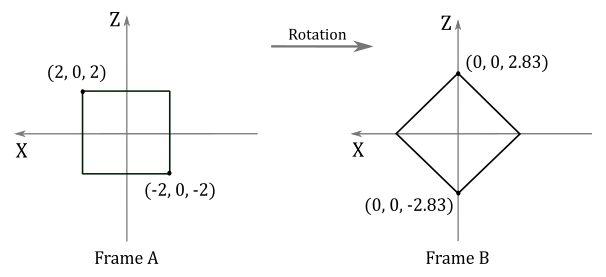
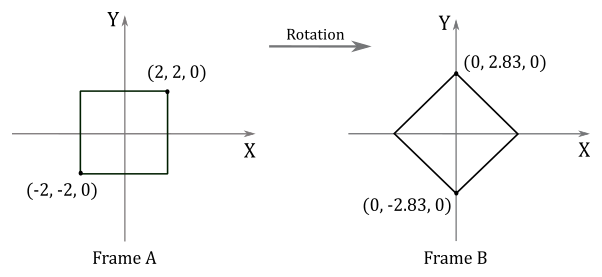
fix

diff --git a/docs/LearnVulkan/A.03-Transformations.md b/docs/LearnVulkan/A.03-Transformations.md
@@ -200,11 +200,11 @@ $S^{-1}=\left\lbrack\matrix{1/s_x&0&0\cr 0&1/s_y&0\cr 0&0&1/s_z}\right\rbrack$
 
 ***Example***:
 
-Given a minimum point $\mathbf{p}=(-2,0,-2)$ and a maximum point $\mathbf{q}=(2,0,2)$ defining a square, if you want to scale it by a factor of $2$ along the x-axis, $0.5$ along the z-axis, and leave the y-coordinate unchanged, you can use the corresponding scaling matrix:
+Given a minimum point $\mathbf{p}=(-2,-2,0)$ and a maximum point $\mathbf{q}=(2,2,0)$ defining a square, if you want to scale it by a factor of $2$ along the x-axis, $0.5$ along the y-axis, and leave the z-coordinate unchanged, you can use the corresponding scaling matrix:
 
 <br>
 
-$\mathbf{S}=\left\lbrack\matrix{2&0&0\cr 0&1&0\cr 0&0&0.5}\right\rbrack$
+$\mathbf{S}=\left\lbrack\matrix{2&0&0\cr 0&0.5&0\cr 0&0&1}\right\rbrack$
 
 <br>
 
@@ -212,9 +212,9 @@ To scale the square, we need to multiply both $\mathbf{p}$ and $\mathbf{q}$ by $
 
 <br>
 
-$\left\lbrack\matrix{-2&0&-2}\right\rbrack\left\lbrack\matrix{2&0&0\cr 0&1&0\cr 0&0&0.5}\right\rbrack=\left\lbrack\matrix{-4&0&-1}\right\rbrack$
+$\left\lbrack\matrix{2&0&0\cr 0&0.5&0\cr 0&0&1}\right\rbrack\left\lbrack\matrix{-2\cr -2\cr 0}\right\rbrack=\left\lbrack\matrix{-4\cr -1\cr 0}\right\rbrack$
 
-$\ \quad\left\lbrack\matrix{2&0&2}\right\rbrack\left\lbrack\matrix{2&0&0\cr 0&1&0\cr 0&0&0.5}\right\rbrack=\left\lbrack\matrix{4&0&1}\right\rbrack$
+$\left\lbrack\matrix{2&0&0\cr 0&0.5&0\cr 0&0&1}\right\rbrack\left\lbrack\matrix{2\cr 2\cr 0}\right\rbrack=\left\lbrack\matrix{4\cr 1\cr 0}\right\rbrack$
 
 <br>
 
@@ -343,11 +343,11 @@ $\mathbf{R}_ x=\left\lbrack\matrix{1&0&0\cr 0&\cos\theta&-\sin\theta\cr 0&\sin\t
 
 ***Example***:
 
-Given a minimum point $\mathbf{p}=(-2,0,-2)$ and a maximum point $\mathbf{q}=(2,0,2)$ of a square, suppose you want to rotate it $-45°$ counterclockwise (that is, $45°$ clockwise) about the y-axis. The corresponding rotation matrix is:
+Given a minimum point $\mathbf{p}=(-2,-2,0)$ and a maximum point $\mathbf{q}=(2,2,0)$ of a square, suppose you want to rotate it $45°$ counterclockwise about the z-axis. The corresponding rotation matrix is:
 
 <br>
 
-$\mathbf{R}_ y=\left\lbrack\matrix{\cos\theta&0&\sin\theta\cr 0&1&0\cr -\sin\theta&0&\cos\theta}\right\rbrack=\left\lbrack\matrix{\cos{(-45°)}&0&\sin{(-45°)}\cr 0&1&0\cr -\sin{(-45°)}&0&\cos{(-45°)}}\right\rbrack=\left\lbrack\matrix{1/\sqrt{2}&0&-1/\sqrt{2}\cr 0&1&0\cr 1/\sqrt{2}&0&1/\sqrt{2}}\right\rbrack$
+$\mathbf{R}_ z=\left\lbrack\matrix{\cos\theta&-\sin\theta&0\cr \sin\theta&\cos\theta&0\cr 0&0&1}\right\rbrack=\left\lbrack\matrix{\cos{(45°)}&-\sin{(45°)}&0\cr \sin{(45°)}&\cos{(45°)}&0\cr 0&0&1}\right\rbrack=\left\lbrack\matrix{1/\sqrt{2}&-1/\sqrt{2}&0\cr 1/\sqrt{2}&1/\sqrt{2}&0\cr 0&0&1}\right\rbrack$
 
 <br>
 
@@ -355,9 +355,9 @@ To rotate the square we need to multiply $\mathbf{p}$ and $\mathbf{q}$ by the ro
 
 <br>
 
-$\left\lbrack\matrix{-2&0&-2}\right\rbrack\left\lbrack\matrix{1/\sqrt{2}&0&-1/\sqrt{2}\cr 0&1&0\cr 1/\sqrt{2}&0&1/\sqrt{2}}\right\rbrack=\left\lbrack\matrix{0&0&-2.83}\right\rbrack$
+$\left\lbrack\matrix{1/\sqrt{2}&-1/\sqrt{2}&0\cr 1/\sqrt{2}&1/\sqrt{2}&0\cr 0&0&1}\right\rbrack\left\lbrack\matrix{-2\cr -2\cr 0}\right\rbrack=\left\lbrack\matrix{0&-2.83&0}\right\rbrack$
 
-$\ \quad\left\lbrack\matrix{2&0&2}\right\rbrack\left\lbrack\matrix{1/\sqrt{2}&0&-1/\sqrt{2}\cr 0&1&0\cr 1/\sqrt{2}&0&1/\sqrt{2}}\right\rbrack=\left\lbrack\matrix{0&0&2.83}\right\rbrack$
+$\left\lbrack\matrix{1/\sqrt{2}&-1/\sqrt{2}&0\cr 1/\sqrt{2}&1/\sqrt{2}&0\cr 0&0&1}\right\rbrack\left\lbrack\matrix{2\cr 2\cr 0}\right\rbrack=\left\lbrack\matrix{0&2.83&0}\right\rbrack$
 
 <br>
 
